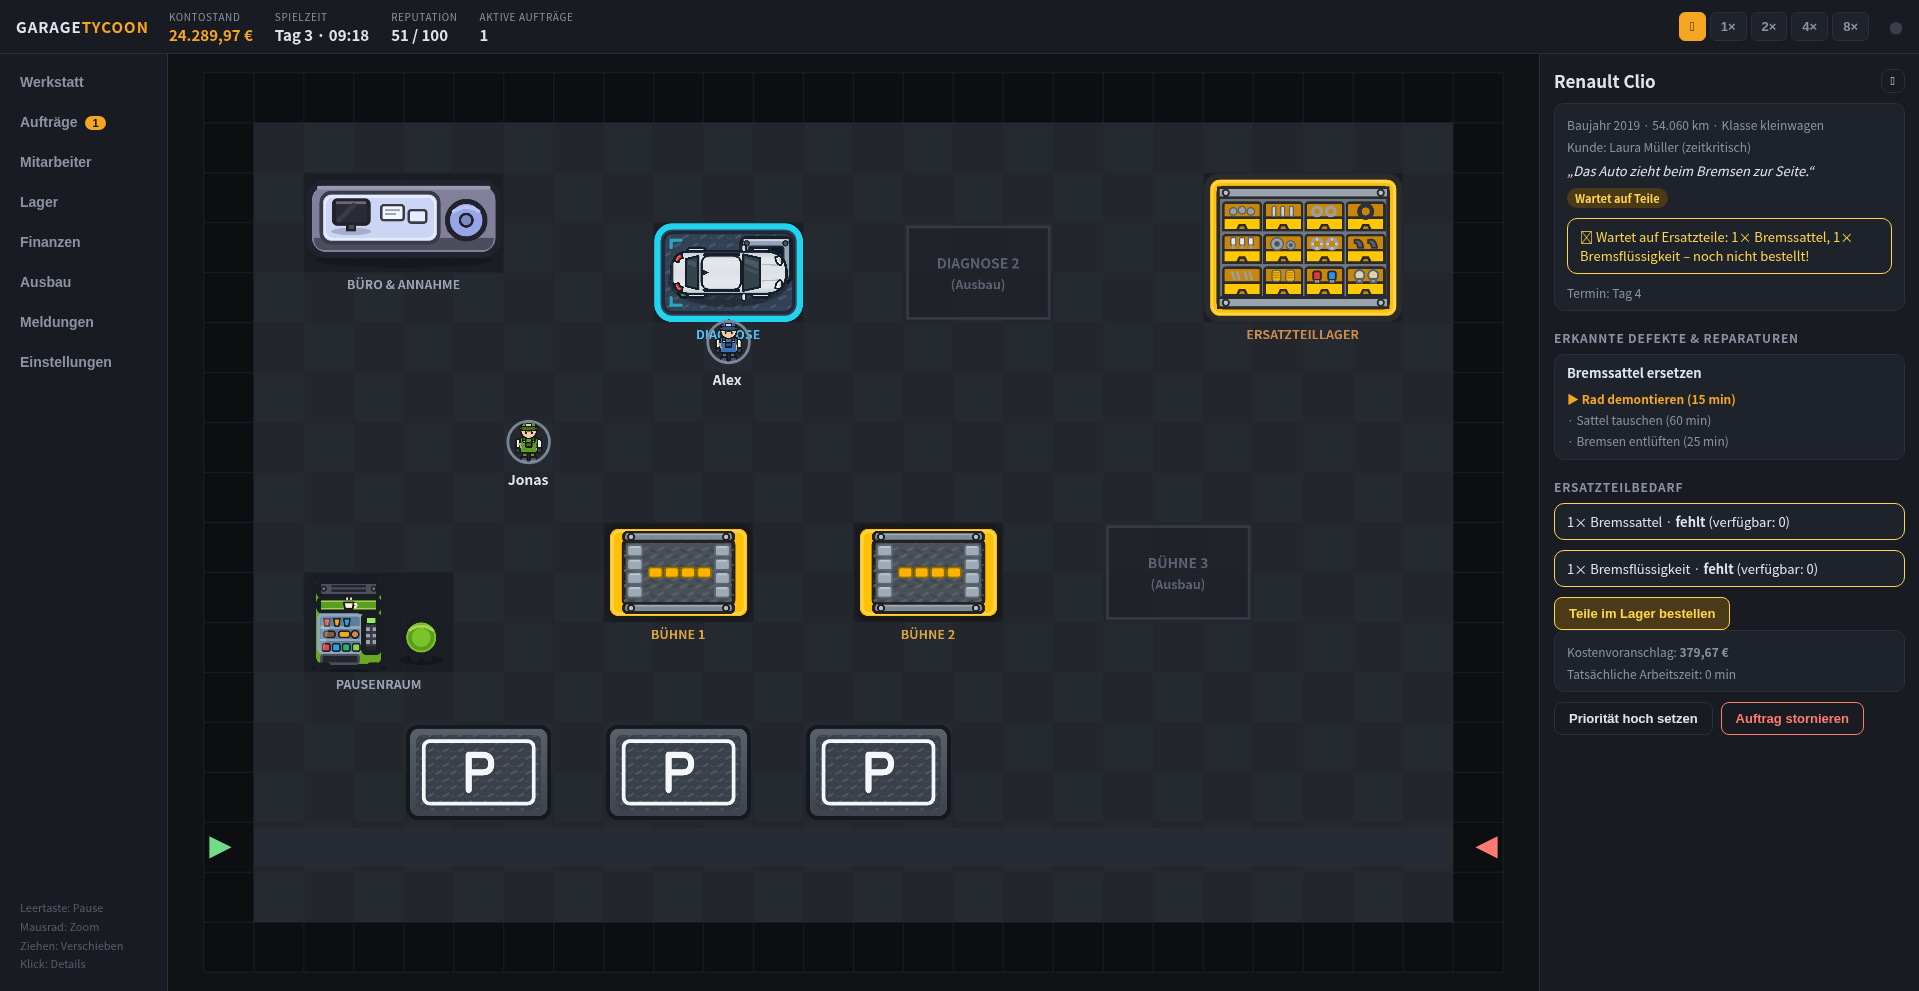
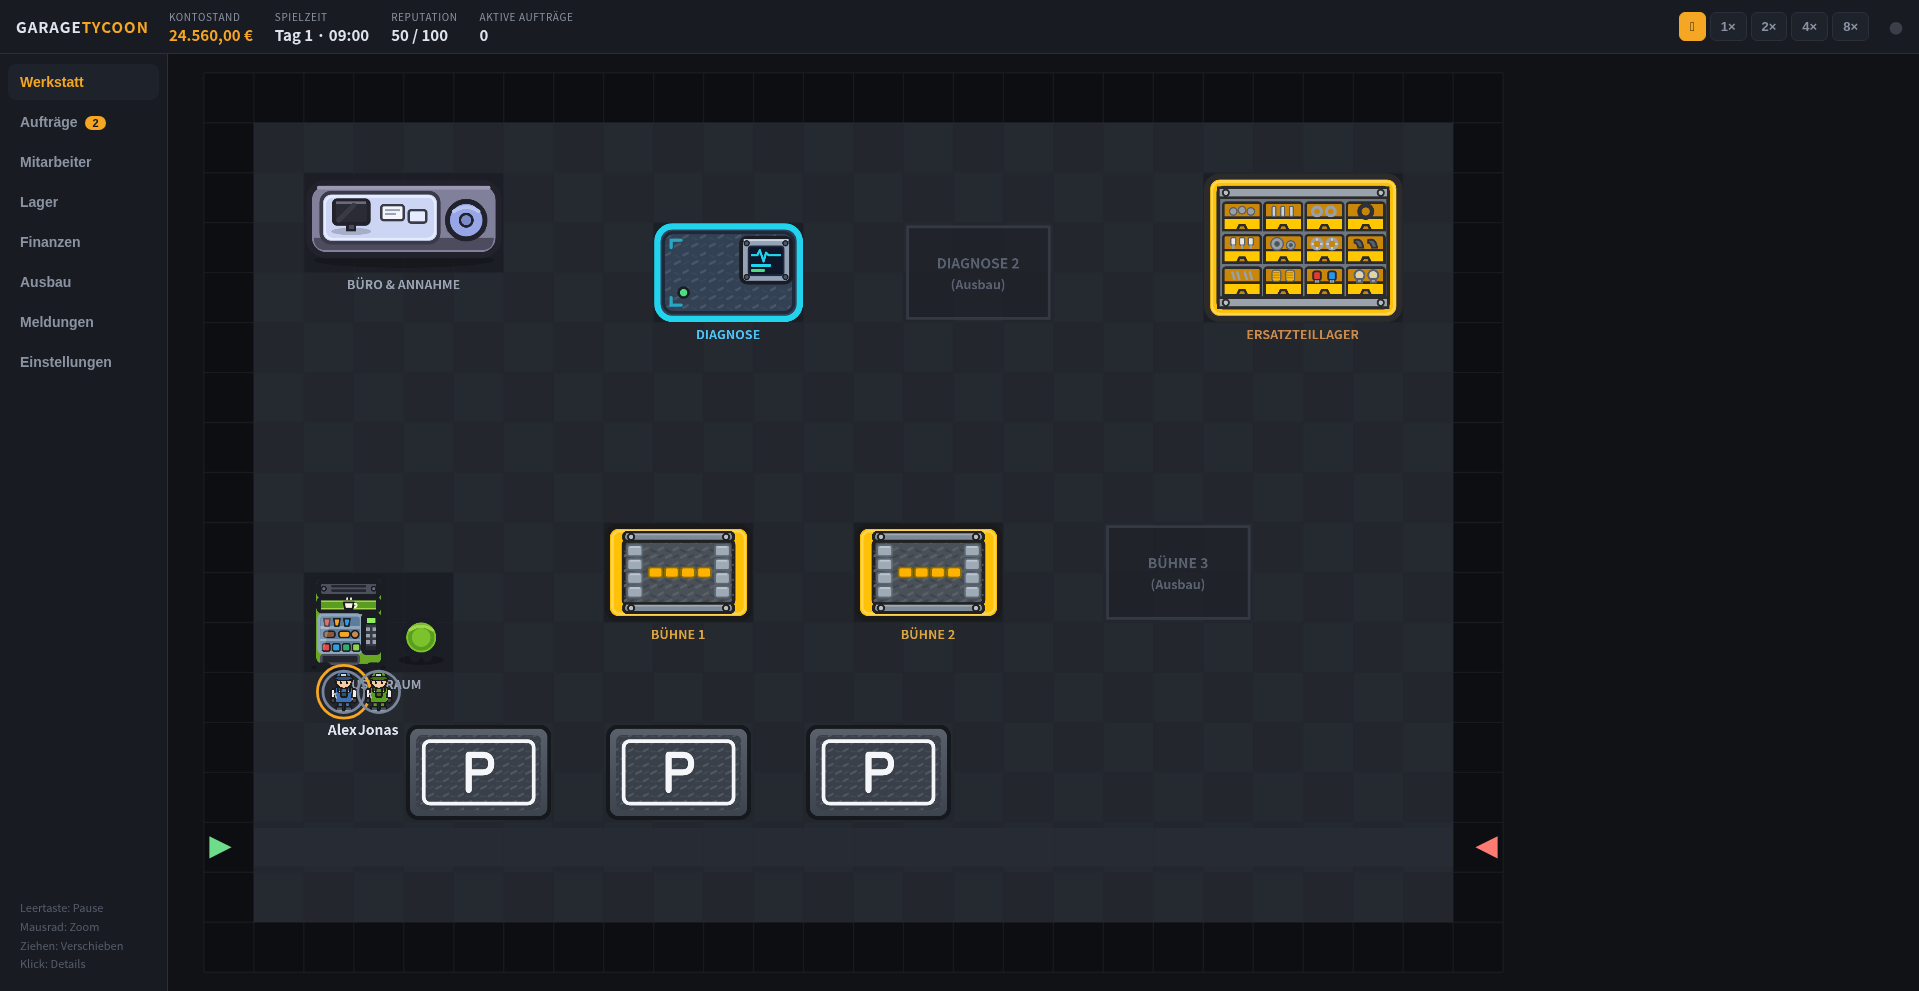
v0.4.3: Feierabend-Ausblendung, Nacht-Skip bei 8x, Pausenraum, Lauftempo
- Mitarbeiter werden nach Feierabend (off_duty) ausgeblendet
- Bei 8x wird die Nacht (18-08 Uhr) automatisch uebersprungen; Ereignisse
  (Lieferungen, Tagesabschluss, Angebotsablauf) werden in groben Schritten
  korrekt verarbeitet; bei Pause/1x/2x/4x keine Nacht-Skips
- Untaetige Mitarbeiter laufen in den Pausenraum (persoenlicher Platz pro
  Mitarbeiter) und werden von dort fuer Auftraege eingeteilt
- Individuelles Lauftempo (0.20-0.60 Tiles/min): Startworker unterschiedlich,
  neue Mitarbeiter zufaellig, im Mitarbeiter-Detail per -/+ einstellbar
- 101 Tests gesamt

diff --git a/tests/nightshift.test.ts b/tests/nightshift.test.ts
@@ -1,0 +1,117 @@
+import { describe, expect, it } from 'vitest';
+import { Game } from '../src/core/Game';
+
+describe('Nacht-Skip bei 8×', () => {
+  it('überspringt die Nacht bis 08:00 und verarbeitet Ereignisse', () => {
+    const game = Game.new(401);
+    game.state.totalMinutes = 18 * 60; // 18:00, Feierabend
+    game.setSpeed(8);
+    // Lieferung trifft nachts ein
+    game.orderParts('battery', 1, 'teileprofi'); // +480 min → 02:00 nachts
+    const stockBefore = game.state.inventory.stock['battery'] ?? 0;
+    game.tick(1);
+    const m = game.state.totalMinutes % 1440;
+    expect(m).toBeGreaterThanOrEqual(480);
+    expect(m).toBeLessThan(482);
+    expect(Math.floor(game.state.totalMinutes / 1440)).toBe(1); // Tag 2
+    expect(game.state.inventory.stock['battery']).toBe(stockBefore + 1);
+    // Tagesabschluss wurde verbucht (Gehälter + Fixkosten)
+    expect(game.state.economy.transactions.some((t) => t.id === 'fixed-d1')).toBe(true);
+  });
+
+  it('überspringt auch die Abendstunden ab 18:00', () => {
+    const game = Game.new(402);
+    game.state.totalMinutes = 22 * 60;
+    game.setSpeed(8);
+    game.tick(1);
+    expect(game.state.totalMinutes % 1440).toBeGreaterThanOrEqual(480);
+  });
+
+  it('bei 4× wird die Nacht nicht übersprungen', () => {
+    const game = Game.new(403);
+    game.state.totalMinutes = 18 * 60;
+    game.setSpeed(4);
+    game.tick(60);
+    expect(game.state.totalMinutes % 1440).toBe(19 * 60);
+  });
+
+  it('bei Pause wird nicht übersprungen', () => {
+    const game = Game.new(404);
+    game.state.totalMinutes = 20 * 60;
+    game.setSpeed(0);
+    game.tick(120);
+    expect(game.state.totalMinutes % 1440).toBe(20 * 60);
+  });
+});
+
+describe('Pausenraum für untätige Mitarbeiter', () => {
+  it('idle Mitarbeiter laufen in den Pausenraum', () => {
+    const game = Game.new(410);
+    game.tick(180);
+    for (const w of game.state.workers) {
+      expect(w.state).toBe('break');
+      expect(w.pos.y).toBeGreaterThan(10);
+      expect(w.pos.x).toBeGreaterThan(1.5);
+      expect(w.pos.x).toBeLessThan(5);
+    }
+  });
+
+  it('Mitarbeiter im Pausenraum werden für Aufträge eingeteilt', () => {
+    const game = Game.new(411);
+    game.tick(180);
+    expect(game.state.workers.every((w) => w.state === 'break')).toBe(true);
+    for (const k of Object.keys(game.state.inventory.stock)) {
+      game.state.inventory.stock[k] = 20;
+    }
+    const offer = game.generateOffer()!;
+    offer.budgetCents = 5_000_000;
+    game.acceptOrder(offer.id);
+    const limit = game.state.totalMinutes + 1440;
+    while (game.state.totalMinutes < limit && offer.status !== 'diagnosing') game.tick(5);
+    expect(offer.status).toBe('diagnosing');
+    expect(offer.assignedWorkerId).not.toBeNull();
+  });
+
+  it('nach Feierabend sind Mitarbeiter off_duty (werden ausgeblendet)', () => {
+    const game = Game.new(412);
+    game.state.totalMinutes = 19 * 60;
+    game.tick(5);
+    for (const w of game.state.workers) {
+      expect(w.state).toBe('off_duty');
+    }
+  });
+});
+
+describe('Individuelle Geschwindigkeit', () => {
+  it('Mitarbeiter haben unterschiedliches Tempo und laufen unterschiedlich schnell', () => {
+    const game = Game.new(420);
+    const [w1, w2] = game.state.workers;
+    game.setWorkerSpeed(w1!.id, 0.6);
+    game.setWorkerSpeed(w2!.id, 0.2);
+    expect(w1!.speedTilesPerMinute).toBe(0.6);
+    expect(w2!.speedTilesPerMinute).toBe(0.2);
+    game.tick(10);
+    // beide laufen Richtung Pausenraum, unterschiedlich weit
+    expect(w1!.pos).not.toEqual(w2!.pos);
+    const d1 = Math.hypot(w1!.pos.x - 4, w1!.pos.y - 6);
+    const d2 = Math.hypot(w2!.pos.x - 6, w2!.pos.y - 7);
+    expect(d1).toBeGreaterThan(d2);
+  });
+
+  it('Geschwindigkeit wird begrenzt', () => {
+    const game = Game.new(421);
+    game.setWorkerSpeed('w1', 5);
+    expect(game.state.workers[0]!.speedTilesPerMinute).toBeLessThanOrEqual(0.6);
+    game.setWorkerSpeed('w1', 0.01);
+    expect(game.state.workers[0]!.speedTilesPerMinute).toBeGreaterThanOrEqual(0.2);
+  });
+
+  it('eingestellte Mitarbeiter bringen eigenes Tempo mit', () => {
+    const game = Game.new(422);
+    game.state.economy.balanceCents = 100_000_000;
+    game.hireCandidate(game.state.candidates[0]!.id);
+    const hired = game.state.workers[2]!;
+    expect(hired.speedTilesPerMinute).toBeGreaterThanOrEqual(0.25);
+    expect(hired.speedTilesPerMinute).toBeLessThanOrEqual(0.5);
+  });
+});

diff --git a/src/core/Game.ts b/src/core/Game.ts
@@ -1,6 +1,7 @@
 import type { GameState, RepairOrder, Worker } from '../entities/types';
 import {
   GAME_MINUTES_PER_REAL_SECOND,
+  MINUTES_PER_DAY,
   SAVE_VERSION,
   SIM_STEP_MINUTES,
 } from '../entities/types';
@@ -42,6 +43,7 @@ function startingWorker(
   name: string,
   skills: Worker['skills'],
   pos: { x: number; y: number },
+  speed: number,
 ): Worker {
   return {
     id,
@@ -55,7 +57,7 @@ function startingWorker(
     task: null,
     shiftStartMinute: 480,
     shiftEndMinute: 1080,
-    speedTilesPerMinute: 0.35,
+    speedTilesPerMinute: speed,
     workedMinutes: 0,
     onDutyMinutes: 0,
     trainingMinutes: 0,
@@ -93,12 +95,14 @@ export function createNewGame(seed: number): GameState {
         'Alex Krause',
         { engine: 65, electrical: 45, suspension: 55, brakes: 70, transmission: 40, diagnosis: 60 },
         { x: 4, y: 6 },
+        0.35,
       ),
       startingWorker(
         'w2',
         'Jonas Weber',
         { engine: 45, electrical: 70, suspension: 60, brakes: 50, transmission: 55, diagnosis: 50 },
         { x: 6, y: 7 },
+        0.32,
       ),
     ],
     vehicles: [],
@@ -172,13 +176,31 @@ export class Game {
     };
   }
 
-  /** Rückt die Simulation in festen Schritten vor (FPS-unabhängig). */
+  /** Rückt die Simulation in festen Schritten vor (FPS-unabhängig).
+   *  Bei 8× wird die Nacht (18:00–08:00) automatisch übersprungen. */
   tick(minutes: number): void {
+    if (this.state.speed === 0) return;
     this.acc += minutes;
+    if (this.state.speed === 8) {
+      const m = this.state.totalMinutes % MINUTES_PER_DAY;
+      if (m >= 1080 || m < 480) {
+        const target = m >= 1080 ? MINUTES_PER_DAY + 480 : 480;
+        const jump = target - m;
+        if (jump > 0) {
+          this.acc += jump;
+          notify(this.ctx, 'info', 'Nacht übersprungen (8×): weiter um 08:00 Uhr.');
+        }
+      }
+    }
     let guard = 0;
-    while (this.acc >= SIM_STEP_MINUTES - 1e-9 && guard++ < 40000) {
-      this.step(SIM_STEP_MINUTES);
-      this.acc -= SIM_STEP_MINUTES;
+    while (guard++ < 40000) {
+      const m = this.state.totalMinutes % MINUTES_PER_DAY;
+      const night = this.state.speed === 8 && (m >= 1080 || m < 480);
+      // Nachts grobe Schritte: Ereignisse (Lieferungen, Tagesabschluss) bleiben erhalten
+      const step = night ? 60 : SIM_STEP_MINUTES;
+      if (this.acc < step - 1e-9) break;
+      this.step(step);
+      this.acc -= step;
     }
   }
 
@@ -288,6 +310,13 @@ export class Game {
   setAutoSupplier(supplierId: string): void {
     if (this.defs.suppliers.some((s) => s.id === supplierId)) {
       this.state.inventory.autoSupplierId = supplierId;
+    }
+  }
+
+  setWorkerSpeed(workerId: string, value: number): void {
+    const w = this.state.workers.find((x) => x.id === workerId);
+    if (w) {
+      w.speedTilesPerMinute = Math.max(0.2, Math.min(0.6, Math.round(value * 100) / 100));
     }
   }
 

diff --git a/src/ui/UI.ts b/src/ui/UI.ts
@@ -34,6 +34,7 @@ export interface UIActions {
   setHourlyRate(v: number): void;
   setPartsMarkup(v: number): void;
   setMinStock(partId: string, v: number): void;
+  setWorkerSpeed(id: string, delta: number): void;
   resetCamera(): void;
   hireCandidate(id: string): void;
   fireWorker(id: string): void;
@@ -281,6 +282,7 @@ export class UI {
       case 'hire': this.actions.hireCandidate(id); break;
       case 'fire': this.actions.fireWorker(id); break;
       case 'train': this.actions.trainWorker(id, btn.dataset.skill ?? ''); break;
+      case 'worker-speed': this.actions.setWorkerSpeed(id, Number(btn.dataset.delta ?? '0')); break;
       case 'refresh-candidates': this.actions.refreshCandidates(); break;
       case 'order-missing': {
         const order = this.getGame().state.orders.find((o) => o.id === id);
@@ -504,6 +506,10 @@ export class UI {
           <button class="btn small" data-action="train" data-id="${w.id}" data-skill="${skill}" ${busy || val >= 100 ? 'disabled' : ''} title="Weiterbildung: +5 für 150 €, dauert 2 h">+5</button></div>`;
       }
       html += `</div><div class="meta muted">Weiterbildung: +5 Punkte für 150 €, Mitarbeiter ist 2 h nicht einsetzbar.</div>`;
+      html += `<div class="meta speed-row">Lauftempo: <strong>${w.speedTilesPerMinute.toFixed(2)}</strong>
+        <button class="btn small" data-action="worker-speed" data-id="${w.id}" data-delta="-0.05" title="langsamer">−</button>
+        <button class="btn small" data-action="worker-speed" data-id="${w.id}" data-delta="0.05" title="schneller">+</button>
+        <span class="muted">(0.20–0.60)</span></div>`;
       if (w.task) {
         html += `<div class="meta">Aktivität: ${WORKER_STATE_LABELS[w.state]} · Schritt verbleibend ca. ${Math.ceil(w.task.remainingMinutes)} Spielminuten</div>`;
       }
@@ -675,6 +681,7 @@ export class UI {
       <div class="card">
         <div class="card-title">Spielstand</div>
         <div class="meta">Automatische Speicherung alle 30 Sekunden und nach wichtigen Ereignissen. Primär IndexedDB (großer Browserspeicher), Fallback localStorage. Kein Server.</div>
+        <div class="meta muted">Bei 8× wird die Nacht (18:00–08:00) automatisch übersprungen. Untätige Mitarbeiter warten im Pausenraum, nach Feierabend werden sie ausgeblendet.</div>
         <div class="btn-row">
           <button class="btn primary" data-action="save">Jetzt speichern</button>
           <button class="btn" data-action="export">Export (JSON)</button>

diff --git a/src/simulation/WorkerSystem.ts b/src/simulation/WorkerSystem.ts
@@ -78,9 +78,42 @@ export class WorkerSystem {
       if (onDuty && w.state === 'off_duty') w.state = 'idle';
       if (w.task) {
         WorkerSystem.progressTask(ctx, w, dt, onDuty);
+      } else if (onDuty) {
+        WorkerSystem.goToBreak(ctx, w, dt);
       }
     }
     WorkerSystem.schedule(ctx);
+  }
+
+  /** Untätige Mitarbeiter sammeln sich im Pausenraum (mit persönlichem Platz). */
+  private static goToBreak(ctx: SimContext, w: Worker, dt: number): void {
+    const br = ctx.state.stations.find((s) => s.kind === 'break_room');
+    if (!br) {
+      w.state = 'idle';
+      return;
+    }
+    const idx = ctx.state.workers.indexOf(w);
+    const target = {
+      x: br.interact.x + ((idx % 3) - 1) * 0.7,
+      y: br.interact.y + Math.floor(idx / 3) * 0.6,
+    };
+    const dInteract = Math.hypot(w.pos.x - br.interact.x, w.pos.y - br.interact.y);
+    if (w.path.length === 0 && dInteract > 1.0) {
+      w.path = findPath(ctx.map, w.pos, br.interact) ?? [];
+    }
+    if (w.path.length > 0) {
+      moveAlongPath(w.pos, w.path, w.speedTilesPerMinute * dt);
+    } else {
+      const dx = target.x - w.pos.x;
+      const dy = target.y - w.pos.y;
+      const d = Math.hypot(dx, dy);
+      if (d > 0.05) {
+        const step = Math.min(w.speedTilesPerMinute * dt, d);
+        w.pos.x += (dx / d) * step;
+        w.pos.y += (dy / d) * step;
+      }
+    }
+    w.state = 'break';
   }
 
   private static progressTask(

diff --git a/tests/assignment.test.ts b/tests/assignment.test.ts
@@ -9,7 +9,14 @@ function stockEverything(game: Game, qty = 20): void {
 }
 
 function acceptWithBudget(game: Game, defectId?: string) {
-  const offer = game.generateOffer()!;
+  let offer = game.generateOffer();
+  if (!offer) {
+    // Anfragen-Cap voll: offene Angebote ablehnen, dann neues erzeugen
+    for (const o of game.state.orders.filter((x) => x.status === 'incoming')) {
+      game.declineOrder(o.id);
+    }
+    offer = game.generateOffer()!;
+  }
   offer.budgetCents = 5_000_000;
   if (defectId) offer.defectRepairIds = [defectId];
   game.acceptOrder(offer.id);

diff --git a/src/main.ts b/src/main.ts
@@ -112,6 +112,10 @@ const actions: UIActions = {
   setMinStock: (partId, v) => {
     game.state.inventory.minStock[partId] = Math.max(0, Math.min(20, Math.round(v)));
   },
+  setWorkerSpeed: (id, delta) => {
+    const w = game.state.workers.find((x) => x.id === id);
+    if (w) game.setWorkerSpeed(id, w.speedTilesPerMinute + delta);
+  },
   resetCamera: () => renderer.resetCamera(),
   hireCandidate: (id) => { game.hireCandidate(id); },
   fireWorker: (id) => { game.fireWorker(id); },

diff --git a/src/rendering/Renderer.ts b/src/rendering/Renderer.ts
@@ -398,9 +398,10 @@ export class Renderer {
       }
     }
 
-    // Mitarbeiter
+    // Mitarbeiter (Feierabend = ausgeblendet)
     const seenW = new Set<string>();
     for (const w of state.workers) {
+      if (w.state === 'off_duty') continue;
       seenW.add(w.id);
       let sprite = this.workerSprites.get(w.id);
       if (!sprite) {

diff --git a/src/styles/main.css b/src/styles/main.css
@@ -99,6 +99,7 @@ body {
 .overdue { color: var(--neg); font-weight: 700; }
 .wait-reason { color: var(--warn); }
 .wait-card { margin-top: 8px; color: var(--warn); }
+.speed-row { display: flex; align-items: center; gap: 6px; margin-top: 8px; }
 
 .chip {
   display: inline-block; font-size: 11px; font-weight: 700;

diff --git a/src/simulation/PersonnelSystem.ts b/src/simulation/PersonnelSystem.ts
@@ -95,7 +95,7 @@ export class PersonnelSystem {
       task: null,
       shiftStartMinute: 480,
       shiftEndMinute: 1080,
-      speedTilesPerMinute: 0.35,
+      speedTilesPerMinute: Math.round(ctx.rng.range(0.28, 0.45) * 100) / 100,
       workedMinutes: 0,
       onDutyMinutes: 0,
       trainingMinutes: 0,
